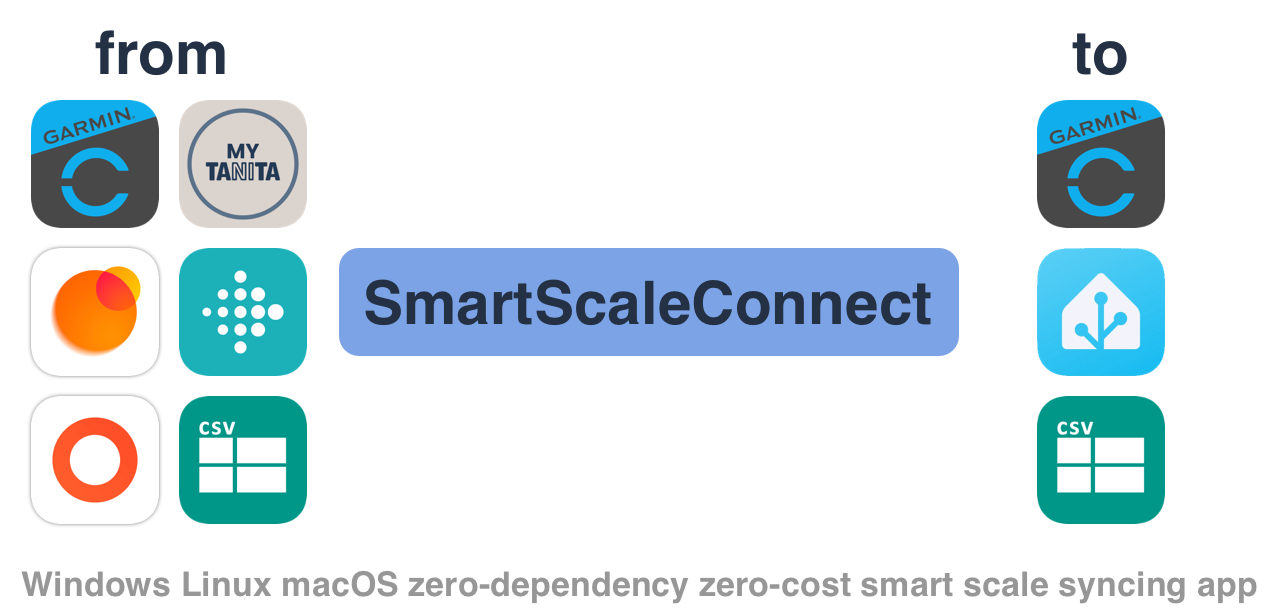
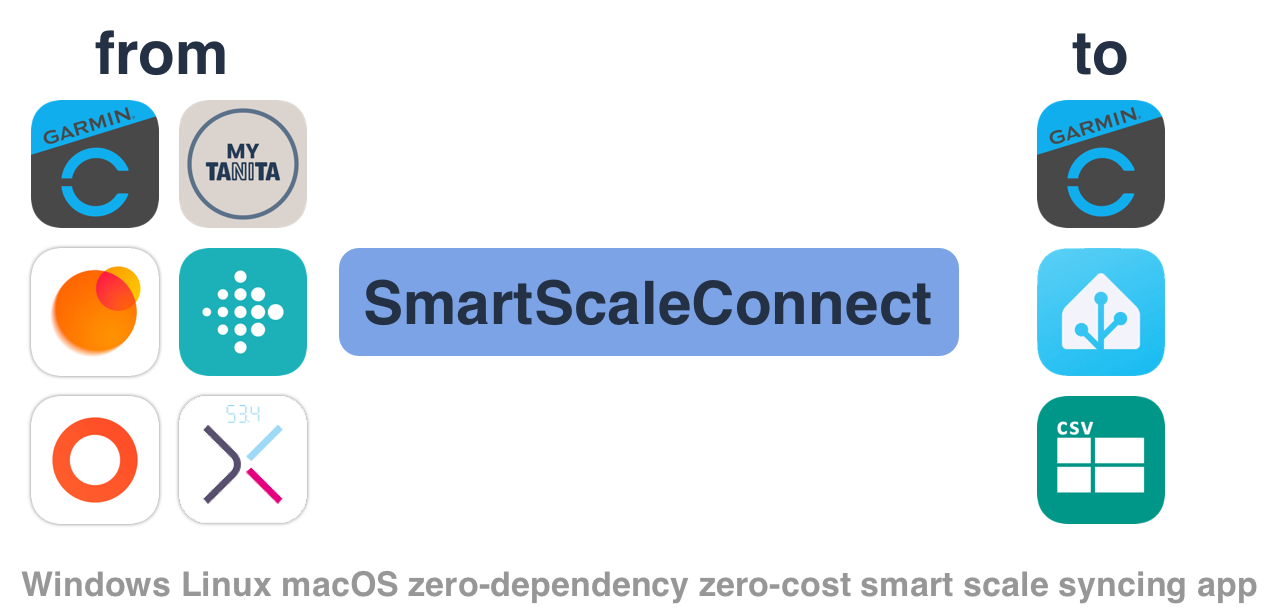
Update readme

Changed region(s): [[0.125, 0.6209, 0.25, 0.8693]]

diff --git a/README.md b/README.md
@@ -4,7 +4,7 @@
 
 **Features:**
 
-- Load data from [Garmin], Zepp Life, Mi Fitness, [My TANITA], [CSV], [JSON]
+- Load data from [Garmin], [Mi Fitness], [My TANITA], [Picooc], [Zepp Life], [CSV], [JSON]
 - Save data to [Garmin], [Home Assistant], [CSV], [JSON]
 - Support params: `Weight`, `BMI`, `Body Fat`, `Body Water`, `Bone Mass`, `Metabolic Age`, `Muscle Mass`, `Physique Rating`, `Visceral Fat`, `Basal Metabolism`, `Heart Rate`, `Skeletal Muscle Mass`
 - Support multiple users data
@@ -12,7 +12,10 @@
 
 [Garmin]: https://connect.garmin.com/
 [Home Assistant]: https://www.home-assistant.io/
+[Mi Fitness]: https://play.google.com/store/apps/details?id=com.xiaomi.wearable
 [My TANITA]: https://mytanita.eu/
+[Picooc]: https://play.google.com/store/apps/details?id=com.picooc.international
+[Zepp Life]: https://play.google.com/store/apps/details?id=com.xiaomi.hm.health
 [CSV]: https://en.wikipedia.org/wiki/Comma-separated_values
 [JSON]: https://en.wikipedia.org/wiki/JSON
 
